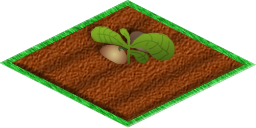
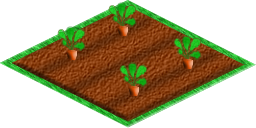
delete raisin mais

Changed region(s): [[0.2188, 0.0, 0.7812, 0.75]]

diff --git a/Constant/js/client.js b/Constant/js/client.js
@@ -58,21 +58,13 @@
 				id : 4,
 				sprite_id : 40
 			},
-			mais : {
+			melon : {
 				id : 5,
 				sprite_id : 50
 			},
-			melon : {
+			carotte : {
 				id : 6,
 				sprite_id : 60
-			},
-			raisin : {
-				id : 7,
-				sprite_id : 70
-			},
-			carotte : {
-				id : 8,
-				sprite_id : 80
 			}
 		}
 	}
@@ -670,15 +662,6 @@
 					}
 				case '5':
 					if(nb == '0'){
-						$("#menu_select_plantes_mais").css('display', 'none');
-						break;
-					}else{
-						$("#menu_select_plantes_mais").css('display', 'inline');
-						$("#menu_select_plantes_mais").val('Planter du mais ('+nb+')');
-						break;
-					}
-				case '6':
-					if(nb == '0'){
 						$("#menu_select_plantes_melon").css('display', 'none');
 						break;
 					}else{
@@ -686,16 +669,7 @@
 						$("#menu_select_plantes_melon").val('Planter un melon ('+nb+')');
 						break;
 					}
-				case '7':
-					if(nb == '0'){
-						$("#menu_select_plantes_raisin").css('display', 'none');
-						break;
-					}else{
-						$("#menu_select_plantes_raisin").css('display', 'inline');
-						$("#menu_select_plantes_raisin").val('Planter du raisin ('+nb+')');
-						break;
-					}
-				case '8':
+				case '6':
 					if(nb == '0'){
 						$("#menu_select_plantes_carotte").css('display', 'none');
 						break;

diff --git a/Constant/index.html b/Constant/index.html
@@ -347,13 +347,7 @@
 						<input id="menu_select_plantes_tomate" class="button_menu_plantes" type="button" value="Planter des tomates" style="display:none;"/>
 					</div>
 					<div>
-						<input id="menu_select_plantes_mais" class="button_menu_plantes" type="button" value="Planter du mais" style="display:none;"/>
-					</div>
-					<div>
 						<input id="menu_select_plantes_melon" class="button_menu_plantes" type="button" value="Planter un melon" style="display:none;"/>
-					</div>
-					<div>
-						<input id="menu_select_plantes_raisin" class="button_menu_plantes" type="button" value="Planter du raisin" style="display:none;"/>
 					</div>
 					<div>
 						<input id="menu_select_plantes_carotte" class="button_menu_plantes" type="button" value="Planter des carottes" style="display:none;"/>
